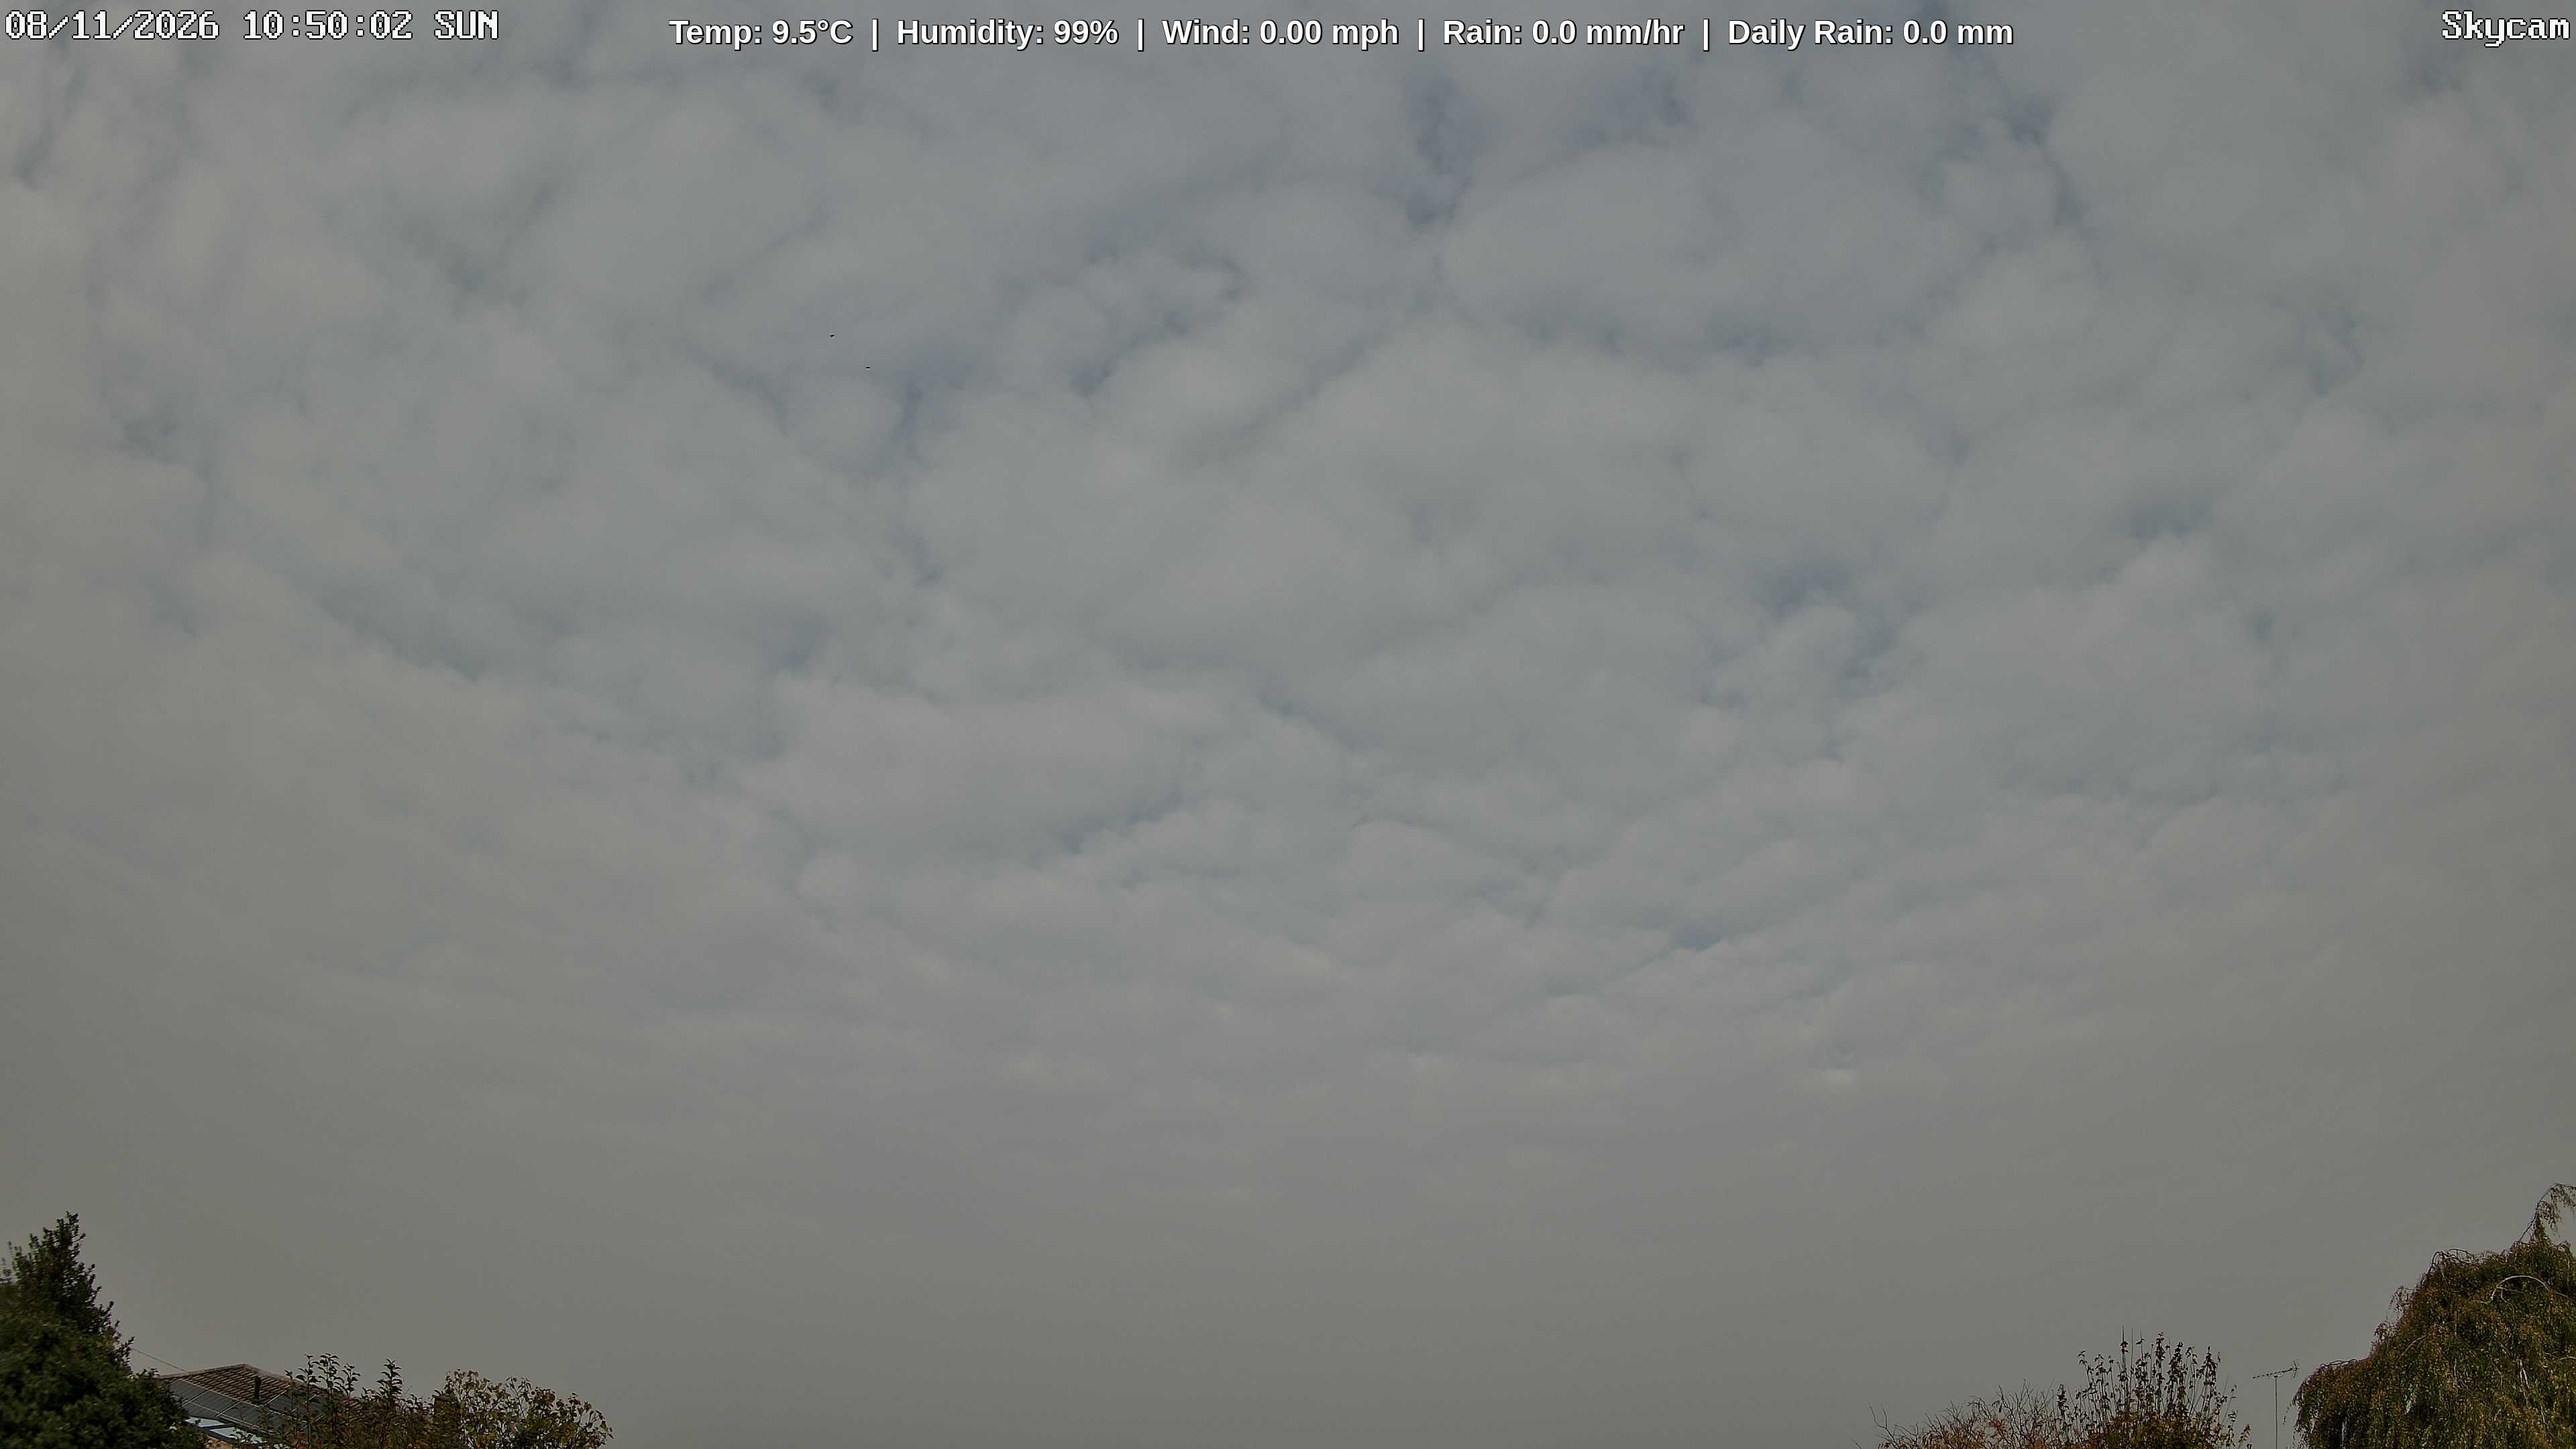
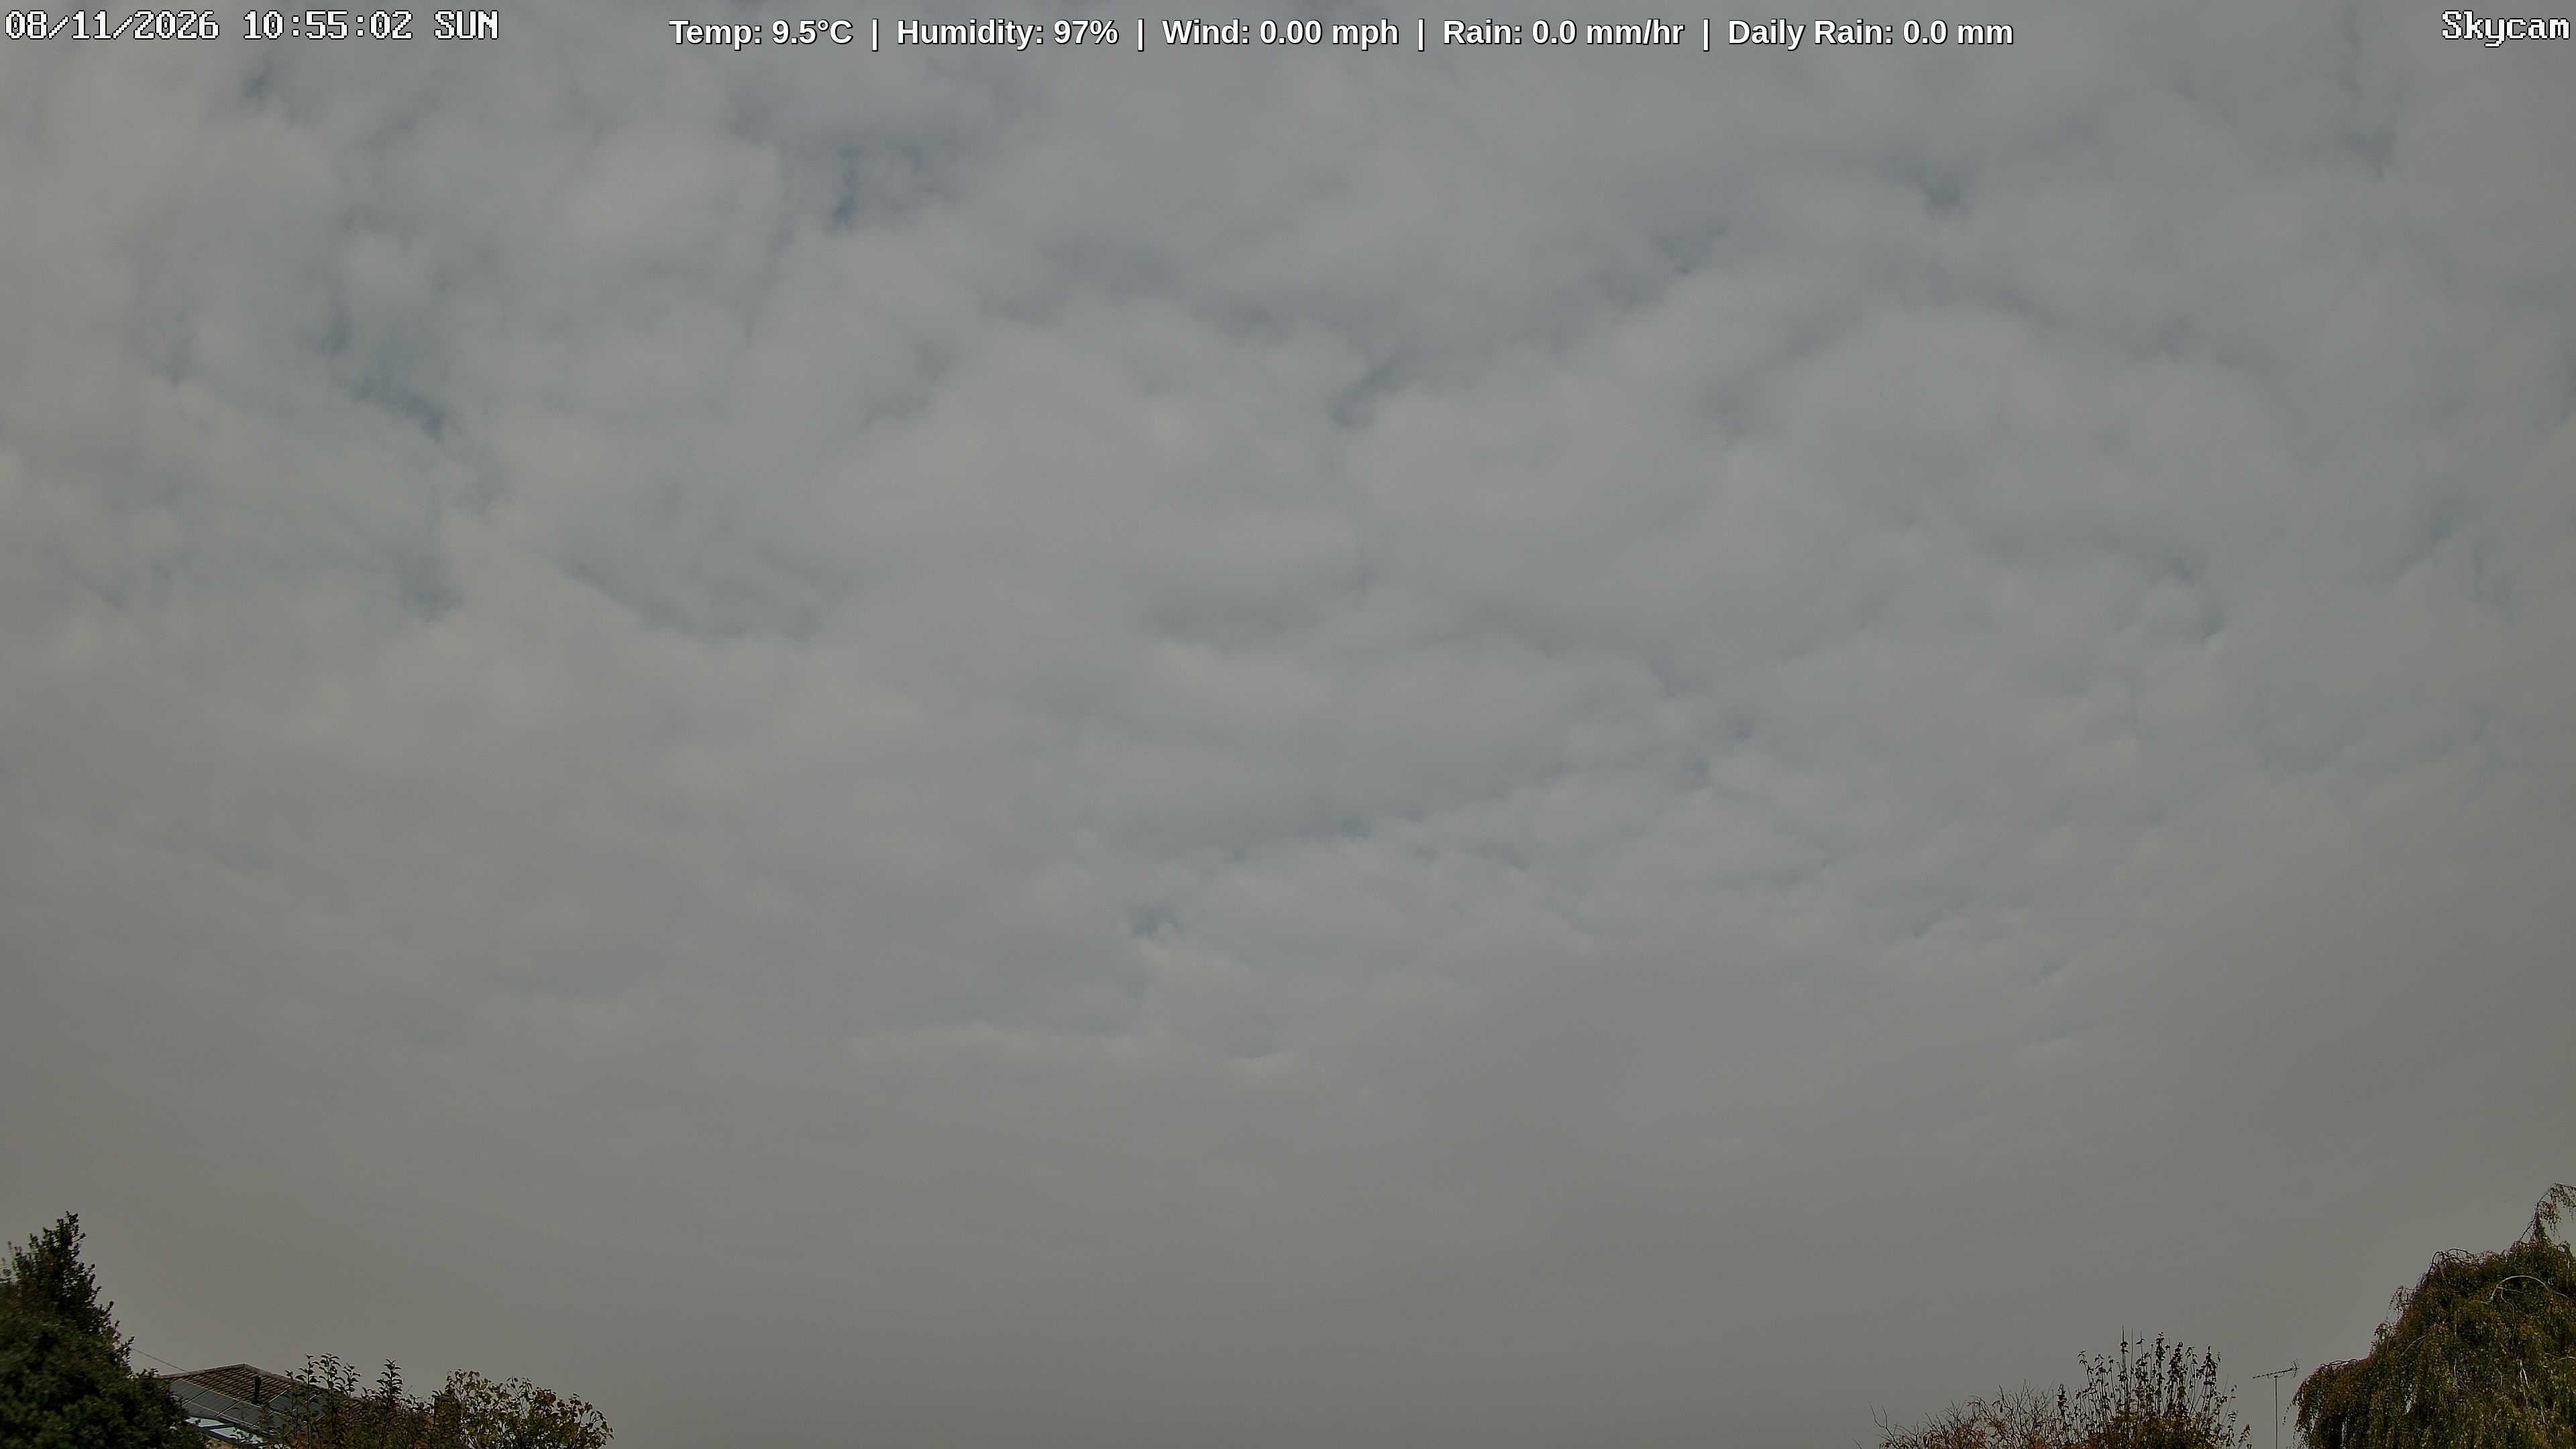
Update weather cam image with synchronized dual-layer weather metrics

diff --git a/index.html b/index.html
@@ -32,7 +32,7 @@
 </head>
 <body>
     <img id="weathercam" alt="Live Weather Snapshot">
-    <div class="banner">Temp: 9.5°C  |  Humidity: 99%  |  Wind: 0.00 mph  |  Rain: 0.0 mm/hr  |  Daily Rain: 0.0 mm</div>
+    <div class="banner">Temp: 9.5°C  |  Humidity: 97%  |  Wind: 0.00 mph  |  Rain: 0.0 mm/hr  |  Daily Rain: 0.0 mm</div>
 
     <script>
         // Shatter mobile cache engines by appending a live unique runtime timestamp 
